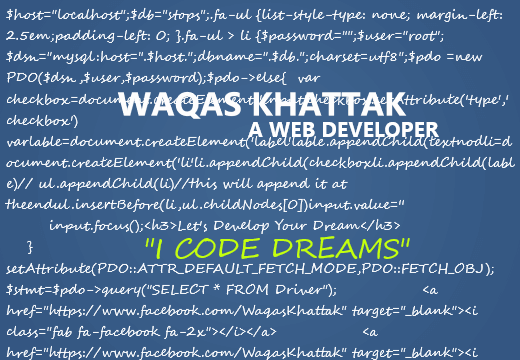
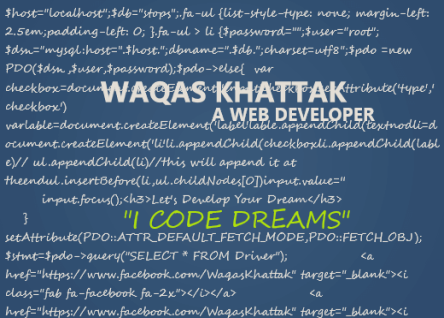
Frontend Changed

diff --git a/index.html b/index.html
@@ -24,46 +24,133 @@
                   <li class="navbar-item">
                     <a href="#projects" class="nav-link h5">Projects</a>
                 </li>
+
                 <li class="navbar-item">
                     <a href="#contact" class="nav-link h5">Contact</a>
+                </li>
+                <li class="navbar-item">
+                    <a href="#specialities" class="nav-link h5">MY Speciality</a>
                 </li>
               </ul>
           </div>
         </nav>
-        <section id="welcome-section" class="col-md-12">
+        <section id="welcome">
+            <div class="about">
+                <h1>WAQAS KHATTAK</h1>
+                <span id="dev">A WEB DEVELOPER</span>
+            </div>
 
 
         </section>
 
 
+
         <section id="projects">
-            <h1>MY PROJECTS</h1>
-            <hr>
+            <div class="heading">
+                <h1>MY PROJECTS</h1>
+                <hr>
+            </div>
+
             <div class="cards">
+                <div class="description">
+                    <h3>CHAT APPLICATION</h3>
+                    <p>MAIN CHARACTERISTICS</p>
+                    
+                <p><i class="fa fa-star"> INSTANT TEXT MESSAGES</i></p>
+                <p><i class="fa fa-star"> SAFE REGISTRATION SYSTEM</i></p>  
+                <p><i class="fa fa-star"> SMOOTH LOGIN PROCESS</i></p>
+                <p><i class="fa fa-star"> COMPLETE PROFILE CONTROL</i></p>
+                <p><i class="fa fa-star"> TECH USED: NODEJS, JAVASCRIPT, MONGODB, EXPRESSJS, EJS, PASSPORTJS</i></p> 
+                
+                </div>
                 <div class="card">
                     <div class="card-body">
-                        <p>Chat Application</p>
                         <img src="images/chat.png"  alt=""><br>
                         <a target="_blank" href="https://realtimechatt.herokuapp.com/" class="btn btn-success">VISIT SITE</a>
                     </div>
-                </div>
-                <div class="card">
-                    <div class="card-body">
-                        <p>Cab Service</p>
-                        <img src="images/cab.png"  alt=""><br>
-                        <a target="_blank" href="http://onlinecab.freeweb.pk/" class="btn btn-success">VISIT SITE</a>
-                    </div>
-                </div>
+                 </div>
+            </div>
 
+            <div class="cards">
+                <div class="description">
+                    <h3>CAB SERVICE</h3>
+                    <p>MAIN CHARACTERISTICS</p>
+                    
+                <p><i class="fa fa-star"> EASY AND SAFE REGISTRAION</i></p>
+                <p><i class="fa fa-star"> STRONG AUTHENTICATION SYSTEM</i></p>  
+                <p><i class="fa fa-star"> INSTANT CAB SERVICE </i></p>
+                <p><i class="fa fa-star"> COMPLETE PROFILE CONTROL</i></p>
+                <p><i class="fa fa-star"> TECH USED: PHP, JAVASCRIPT, MYSQL, HTML, CSS, AJAX</i></p> 
+                
+                </div>
                 <div class="card">
                     <div class="card-body">
-                        <p>Todo Application</p>
+                        <img src="images/cab.png"  alt=""><br>
+
+                        <a target="_blank" href="http://onlinecab.freeweb.pk/" class="btn btn-success">VISIT SITE</a>
+
+                    </div>
+                 </div>
+            </div>
+            <hr>
+
+            <div class="cards">
+                <div class="description">
+                    <h3>TODO APPLICATION</h3>
+                    <p>MAIN CHARACTERISTICS</p>
+                    
+                <p><i class="fa fa-star"> SIMPLE USER INTERFACE</i></p>
+                <p><i class="fa fa-star"> EASY ADDING aND DELETING TODOS PROCESS</i></p>  
+                <p><i class="fa fa-star"> TECH USED: JAVASCRIPT,HTML,CSS</i></p> 
+                
+                </div>
+                <div class="card">
+                    <div class="card-body">
                         <img src="images/todo.png"  alt=""><br>
+                       
                         <a target="_blank" href="https://vickyktk.github.io/TodoApp/" class="btn btn-success">VISIT SITE</a>
                     </div>
-                </div>
+                 </div>
+            </div>
 
-                
+        </section>
+
+
+        <!-- MY SPECIALITIES -->
+        <section class="specialities " id="specialities">
+            <div class="title">
+                <h3>I AM A FULL STACK DEVELOPER</h3>
+                <hr>
+            </div>
+            <div class="stack">
+                <div class="card">
+                    <div class="card-body">
+                        <h5>BACKEND</h5>
+                        <p>
+                            I have hands on experience with JAVASCRIPT,NODEJS & PHP
+                            And Have Devloped many WEB-APPs With these ...
+                            Other Backend techs are C++ and JAVA
+                        </p>
+                    </div>
+                </div>
+                <div class="card">
+                    <div class="card-body">
+                        <h5>FRONTEND</h5>
+                        <p>
+                            I have hands on experience with JAVASCRIPT, HTML, CSS & BOOTSTRAP
+                            And Have Devloped many WEB-APPs With these ...
+                        </p>
+                    </div>
+                </div>
+                <div class="card">
+                    <div class="card-body">
+                        <h5>DATABASE</h5>
+                        <p>
+                            I have hands on experience with MYSQL & MONGODB
+                            And Have used them in my WEB-APPs heavily ...
+                        </p>
+                    </div>
+                </div>
             </div>
         </section>
 
@@ -88,6 +175,6 @@
 
         </section>
     </div>
-<script src="fonts/fontawesome-free-5.11.2-web/js/all.min.js"></script>
 </body>
 </html>
+

diff --git a/style.css b/style.css
@@ -1,8 +1,7 @@
 
 *{
     scroll-behavior: smooth;
-    color: white;
-
+    /* color: white; */
 }
 /* #navbar{
     position: fixed;
@@ -13,37 +12,38 @@ nav ul a{
     color: white;
 }
 
-#welcome-section{
-    background-image:url("images/hero2.png");
-    background-position: center;
-    background-size: cover;
-    width:100%;
-    margin-bottom: 5px;
-    height: 90vh;
+#welcome {
     display: flex;
-    text-align: center;
-    justify-content: center;
     align-items: center;
-    background-color: rgb(71, 48, 48);
-    color:#fff;
+    justify-content: center;
+    height: 100vh;
+    background-color: rgba(239, 239, 241, 0.986);
+    color:#000;
 }
-#welcome-section h1{
-    margin-bottom: 170px;
+
+
+
+#welcome .about{
+    /* font-family: Georgia, 'Times New Roman', Times, serif; */
+    font-family: cursive;
 }
-#welcome-section span{
-    margin-left: -130px;
-    margin-bottom: 100px;
-}
+
+
+
+
+/* PROJECTS SECTION */
+
 #projects{
     display: flex;
     flex-direction: column;
-    background-color: black;
+    background-color: rgba(187, 139, 139, 0.774);
     padding: 30px;
     margin-bottom: 5px;
-
+    align-items: center;
+    justify-content: center;
 }
 
-#projects h1,#projects hr{
+#projects .heading{
     align-self: center;
 
 }
@@ -52,39 +52,38 @@ nav ul a{
     background-color: #fff;
     color: white;
     height: 5px;
-    width: 30%;
 }
 
 
 
+/* THE ACTUAL PROJECTS */
 #projects .cards{
     align-self: center;
-    display: grid;
-    padding: 5px;
-    text-align: center;
-    width: 100%;
-    grid-template-columns: auto auto auto;
+    display: flex;
+    flex-direction: row;
+    justify-content: space-between;
+    margin-top: 20px;
 }
 
 
+
+/* THE CARD (images & button) */
 .cards .card{
-    width:98%;
     border:1px solid white;
     border-radius: 30px;
-    background-color: #343434;
     margin-bottom: 7px;
-}
-.card p{
-    background-color: blue;
-    height: 50px;
-    text-align: center;
-    font-size: 22px;
-    font-weight: bold;
+    display: flex;
+    justify-content: center;
+    align-items: center;
+    width: 40%;
+    margin-bottom: 10px;
 }
 
 
 .card img{
     width:100%;
+    align-self: center;
+
     margin-bottom: 10px;
 }
 
@@ -110,17 +109,32 @@ nav ul a{
     height: 5px;
     width: 100%;
 }
+
 .platforms{
-    margin: 10px;
     width: 20%;
     display: flex;
-    justify-content: space-between;
-
 }
 
 
 
+.specialities{
+    display: flex;
+    flex-direction: column;
+    margin-bottom: 10px;
+    margin-top: 10px;
+    background-color: blueviolet;
+    padding: 10px;
+}
+.specialities  .title{
+    align-self: center;
+}
 
+.specialities .stack{
+    align-self: start;
+    display: flex;
+    flex-direction: row;
+    width: 100%;
+}
 
 
 
@@ -143,30 +157,58 @@ nav ul a{
 
 
 @media (max-width:768px){
+    #welcome{
+        display: flex;
+        text-align: center;
+    }
+    #welcome .about h1{
+        font-size: 20px;
+    }
+    #projects .heading h1{
+        font-size: 30px;
+    }
+
+    .cards .description h3{
+        font-size: 24px;
+    }
     #projects .cards{
         display: flex;
         flex-direction: column;
+        /* text-align: center; */
+        justify-content: flex-start;
     }
     #projects .card{
         width:98%;
         border-radius: 30px;
-        background-color: #343434;
     }
-    #welcome-section{
-        height: 50vh;
+    #welcome{
+        display: flex;
+        justify-content: center;
+        align-items: center;
     }
-    #welcome-section h1{
-        margin-top: 170px;
-        font-size: 28px;
-    }
-    #welcome-section span{
-        margin-top: 179px;
-    }
-    .navbar-nav{
-        display: grid;
-        grid-template-columns: auto auto auto;
-    }
-
 
     
+    #projects .cards{
+        flex-direction: column;
+    }
+
+
+
+    .navbar-nav{
+        display: flex;
+        flex-direction: row;
+        flex-wrap: wrap;
+        justify-content: space-between;
+    }
+    .platforms{
+         width: 100%;
+         align-self: flex-start;
+         justify-content: space-between;
+       }  
+       .specialities  .title h3{
+        font-size: 18px;
+    }
+    .specialities  .stack{
+        flex-direction: column;
+    }
 }
